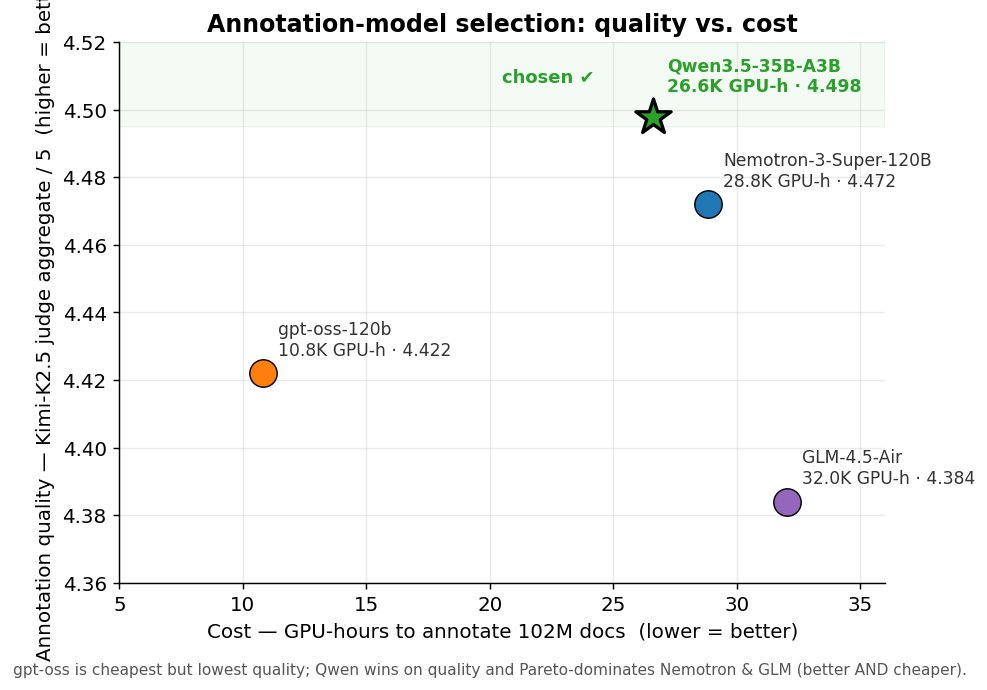
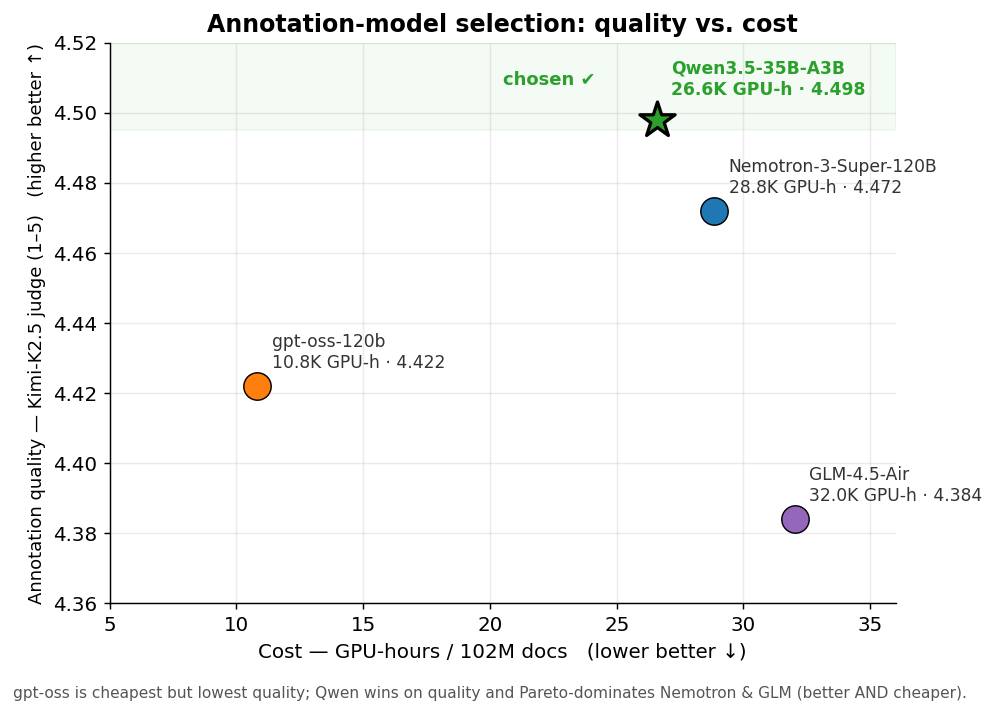
docs: fix clipped y-axis label on cost_vs_quality plot
The y-axis label was longer than the plot height, so its top ("better)")
was clipped outside the figure border. Shortened both axis labels to
compact forms with ↑/↓ direction arrows and gave the figure slightly more
height; the full label now fits inside the borders.

diff --git a/pipeline/assets/model_selection/make_plots.py b/pipeline/assets/model_selection/make_plots.py
@@ -40,7 +40,7 @@ def short(m): return {"Qwen3.5-35B-A3B":"Qwen3.5-35B-A3B","Nemotron-3-Super-120B
                       "gpt-oss-120b":"gpt-oss-120b","GLM-4.5-Air":"GLM-4.5-Air"}[m]
 
 # ===== 1. Cost vs Quality (the decision plot) =====
-fig, ax = plt.subplots(figsize=(7.6,5.4))
+fig, ax = plt.subplots(figsize=(7.8,5.6))
 for m in MODELS:
     x, y = COST[m]/1000, QUALITY[m]
     chosen = (m=="Qwen3.5-35B-A3B")
@@ -53,8 +53,8 @@ for m in MODELS:
                 fontsize=9.5, fontweight="bold" if chosen else "normal",
                 color=COLOR[m] if chosen else "#333")
 ax.axhspan(QUALITY["Qwen3.5-35B-A3B"]-0.003, 4.52, color="#2ca02c", alpha=0.05)
-ax.set_xlabel("Cost — GPU-hours to annotate 102M docs  (lower = better)")
-ax.set_ylabel("Annotation quality — Kimi-K2.5 judge aggregate / 5  (higher = better)")
+ax.set_xlabel("Cost — GPU-hours / 102M docs   (lower better ↓)")
+ax.set_ylabel("Annotation quality — Kimi-K2.5 judge (1–5)   (higher better ↑)", fontsize=10)
 ax.set_title("Annotation-model selection: quality vs. cost", fontweight="bold")
 ax.set_xlim(5, 36); ax.set_ylim(4.36, 4.52)
 ax.annotate("chosen ✔", (26.582, 4.498), xytext=(20.5, 4.508), fontsize=10,